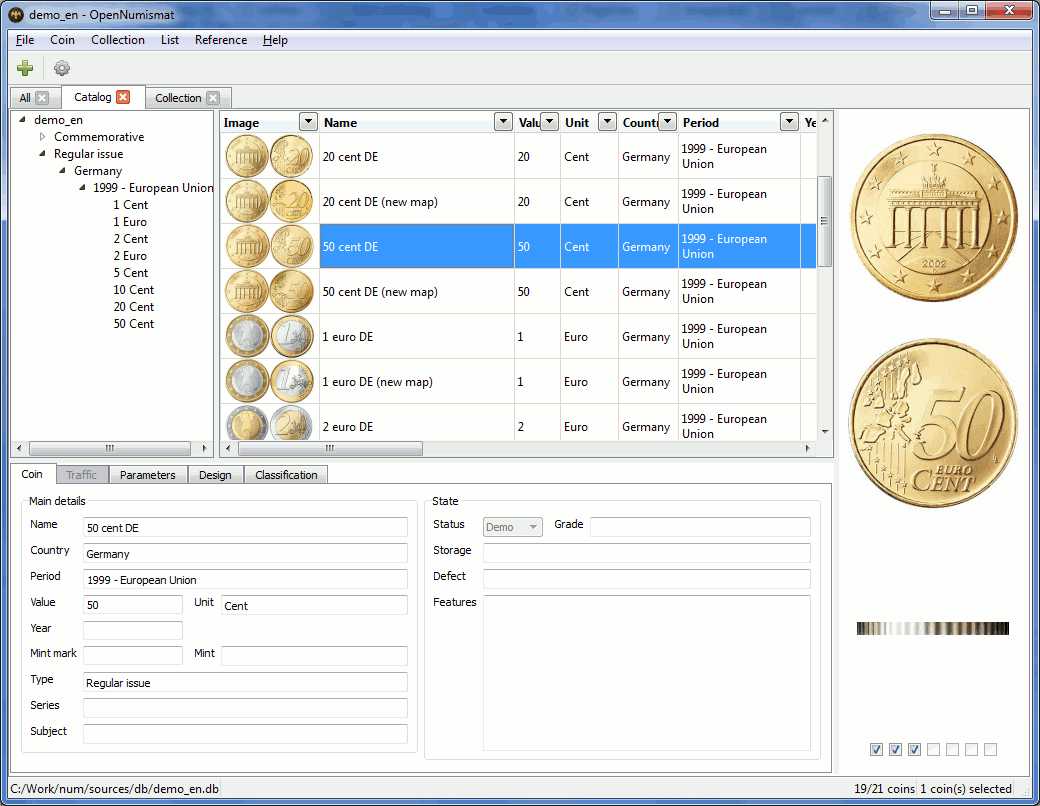
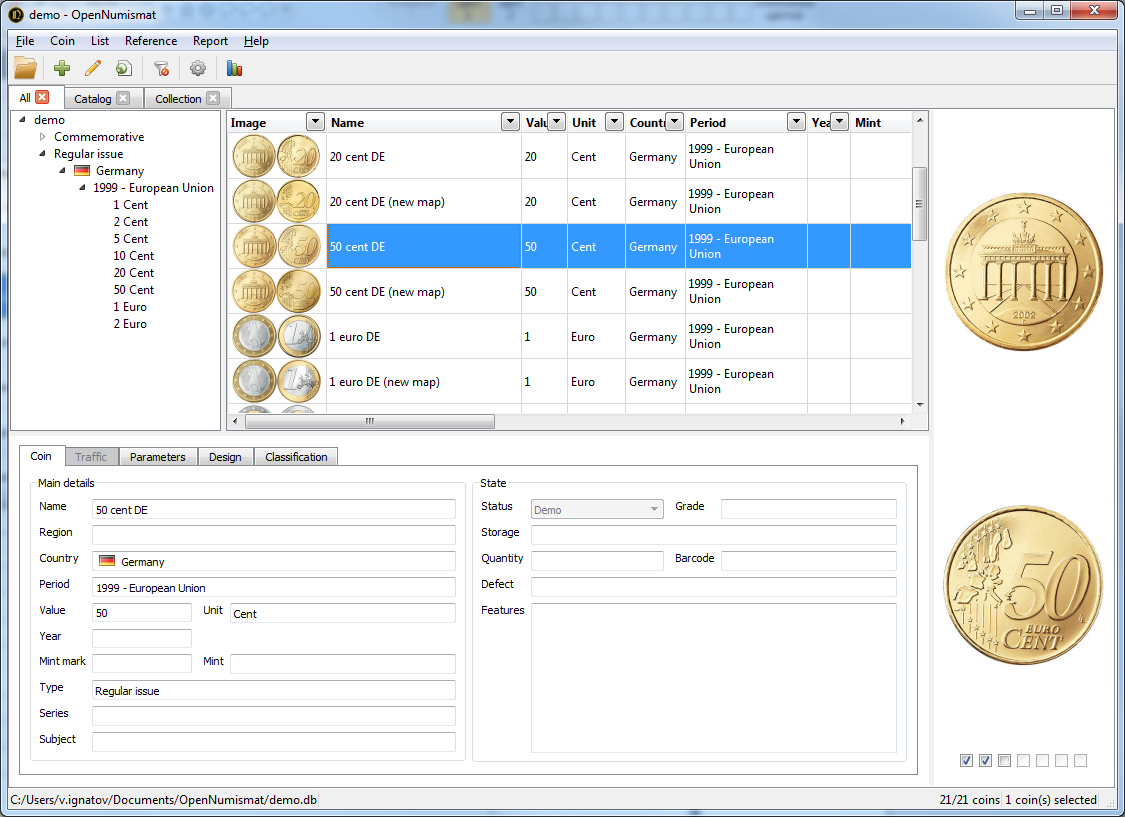
up

Changed region(s): [[0.0, 0.0, 1.0, 1.0], [0.1846, 0.7444, 0.2462, 0.7754]]

diff --git a/open-numismat/index.html b/open-numismat/index.html
@@ -58,18 +58,18 @@
       <section id="main_content" class="inner">
 <div>
 <h1>
-<a name="OpenNumismat"></a>OpenNumismat<a href="#OpenNumismat" class="section_anchor"></a>
+OpenNumismat
 </h1>
 <h2>
-<a name="Description"></a>Description<a href="#Description" class="section_anchor"></a>
+Description
 </h2>
 <p><strong>OpenNumismat</strong> is a handy and reliable application aimed at coin lovers, numismatists or amateurs looking to create a numismatics collection.</p>
 <p>With <strong>OpenNumismat</strong>, you will be able to create, organize and manage your own coin catalogue with detailed description and photos for each of the items.</p>
 <h2>
-<a name="Main_features"></a>Main features<a href="#Main_features" class="section_anchor"></a>
+Main features
 </h2>
 <ul>
-<li>More than 60 customizable <a href="/p/open-numismat/wiki/Fields?wl=en">fields</a> to describe the coin:</li>
+<li>More than 60 customizable fields to describe the coin:</li>
   <ul>
 <li>Features</li>
     <li>State of a coin</li>
@@ -79,10 +79,11 @@
   </ul>
 <li>Up to 7 photos coins (insert image from file, clipboard, download from the Web at URL)</li>
   <li>The grouping, filters and sorting to facilitate the retrieval of coins in the catalog</li>
-  <li>Generate and print <a href="/p/open-numismat/wiki/ReportEngine?wl=en">reports</a>, saving as HTML, PDF, MS Word</li>
+  <li>Generate and print reports, saving as HTML, PDF, MS Word</li>
   <li>Export customized lists as MS Excel, HTML and CSV</li>
   <li>Duplication of coins to quickly add a similar coin</li>
   <li>Batch edit coins</li>
+  <li>Statistics</li>
   <li>Ability to add and customize the lists to display the required data</li>
   <li>Does not require additional software to work with a database</li>
   <li>Importing existing collections from:</li>
@@ -100,16 +101,34 @@
   <li>Cross-platform: Windows, Linux, MacOS and Android.</li>
 </ul>
 <h2>
-<a name="Download"></a>Download<a href="#Download" class="section_anchor"></a>
+Download
 </h2>
-<p>The latest version: <strong>OpenNumismat 1.5.5</strong>. Release date: 09 October 2017</p>
-<p><strong><a href="https://github.com/OpenNumismat/open-numismat/releases/download/1.5.5/OpenNumismat-1.5.5.exe" rel="nofollow">Download OpenNumismat 1.5.5</a></strong> for Windows</p>
-<p><a href="https://github.com/OpenNumismat/open-numismat/releases/download/1.5.5/open-numismat_1.5.5_all.deb" rel="nofollow">Download OpenNumismat 1.5.5</a> for Debian/Ubuntu</p>
+<p>The latest version: <strong>OpenNumismat 1.6.0</strong>. Release date: 20 November 2017</p>
+<p><strong><a href="https://github.com/OpenNumismat/open-numismat/releases/download/1.6.0/OpenNumismat-1.6.0.exe" rel="nofollow">Download OpenNumismat 1.6.0</a></strong> for Windows</p>
+<p><a href="https://github.com/OpenNumismat/open-numismat/releases/download/1.6.0/open-numismat_1.6.0_all.deb" rel="nofollow">Download OpenNumismat 1.6.0</a> for Debian/Ubuntu</p>
 <p><a href="https://github.com/OpenNumismat/open-numismat/releases/download/1.5.3/OpenNumismat-1.5.3.dmg" rel="nofollow">Download OpenNumismat 1.5.3</a> for Mac OS X 10.8 and later (latest version not yet ready for Mac OS X)</p>
 <p><a href="https://github.com/OpenNumismat/open-numismat/releases" rel="nofollow">Older Releases...</a></p>
 <h2>
-<a name="News"></a>History of changes<a href="#News" class="section_anchor"></a>
+History of changes
 </h2>
+  <h3>What's new in OpenNumismat 1.6.0 (20 November 2017)</h3>
+  <ul>
+    <li>Implemented Statistics panel (<a href="/images/screenStatistics.png">screenshot</a>)</li>
+    <li>Renaming images in Edit dialog (new name showed as tooltip in Image panel)</li>
+    <li>New fields: Ruler and Region (DB will be updated automatically - be patient)</li>
+    <li>Implemented attaching reference to a collection file</li>
+    <li>Improved using reference in Edit dialog</li>
+    <li>New flags in reference, fixed some countries (for get new reference remove current)</li>
+    <li>Icons from reference can be showed in Tree, Filters, Info panel and Table of coins</li>
+    <li>Improved edit Tree dialog</li>
+    <li>Added support for 1/3 values</li>
+    <li>Fixed cloning and closing lists</li>
+    <li>Fixed importing from UCoin</li>
+    <li>Fixed entering values greater 1000</li>
+    <li>Fixed wikipedia_2 report generation</li>
+    <li>New report template: Wanted</li>
+    <li>Added link to <a href="manual.html">User manual</a></li>
+  </ul>
   <h3>What's new in OpenNumismat 1.5.5 (09 October 2017)</h3>
   <ul>
     <li>New settings: convert 0.5 to &frac12;</li>
@@ -134,29 +153,14 @@
     <li>Improved getting boolean settings on MacOS</li>
     <li>Other minor improvements</li>
   </ul>
-  <h3>What's new in OpenNumismat 1.5.3 (19 February 2016)</h3>
-  <ul>
-    <li>Fix loosing cursor when inserting records</li>
-    <li>Add coins from another collection</li>
-    <li>Fix filtering with Status column</li>
-    <li>Add Rename field button into Settings</li>
-    <li>Fix float numeric fields for some Romance languages</li>
-    <li>Improve setting values for Mintage field</li>
-    <li>Fix pasting image from web</li>
-    <li>Fix clearing Date fields</li>
-    <li>Added French translations (by Mathieu Martineau, Jean-Claude Kursner)</li>
-    <li>Added option for compressing images on export to mobile</li>
-    <li>Updated Clear filters icon</li>
-    <li>Updated additional libraries and dependencies</li>
-  </ul>
   <a href="history.html">Older...</a>
 <h2>
-<a name="Screenshots"></a>Screenshots<a href="#Screenshots" class="section_anchor"></a>
+Screenshots
 </h2>
 <p><img src="/images/screenMain.png"></p>
 <p><a href="screenshots.html">More screenshots and videos</a></p>
 <h2>
-<a name="How_can_I_help?"></a>How can I help?<a href="#How_can_I_help?" class="section_anchor"></a>
+How can I help?
 </h2>
 <ul>
 <li>Use <strong>OpenNumismat</strong> and recommend it to your friends.</li>
@@ -165,7 +169,7 @@
   <li>If you own the exclusive rights to the catalogues, photographs or other numismatic content that can be included in the application data, please, contact the author.</li>
 </ul>
 <h2>
-<a name="Details"></a>Details<a href="#Details" class="section_anchor"></a>
+Details
 </h2>
 <p><strong>OpenNumismat</strong> is a:</p>
 <p><img src="/images/qt-logo.png" class="img-logo"><img src="/images/python-logo.png" class="img-logo"><img src="/images/sqlite-logo.png" class="img-logo"><img src="/images/gplv3-logo.png" class="img-logo"></p>

diff --git a/open-numismat/history.html b/open-numismat/history.html
@@ -56,6 +56,24 @@
 History of changes OpenNumismat
 </h2>
 <p>
+  <h3>What's new in OpenNumismat 1.6.0 (20 November 2017)</h3>
+  <ul>
+    <li>Implemented Statistics panel (<a href="/images/screenStatistics.png">screenshot</a>)</li>
+    <li>Renaming images in Edit dialog (new name showed as tooltip in Image panel)</li>
+    <li>New fields: Ruler and Region (DB will be updated automatically - be patient)</li>
+    <li>Implemented attaching reference to a collection file</li>
+    <li>Improved using reference in Edit dialog</li>
+    <li>New flags in reference, fixed some countries (for get new reference remove current)</li>
+    <li>Icons from reference can be showed in Tree, Filters, Info panel and Table of coins</li>
+    <li>Improved edit Tree dialog</li>
+    <li>Added support for 1/3 values</li>
+    <li>Fixed cloning and closing lists</li>
+    <li>Fixed importing from UCoin</li>
+    <li>Fixed entering values greater 1000</li>
+    <li>Fixed wikipedia_2 report generation</li>
+    <li>New report template: Wanted</li>
+    <li>Added link to <a href="../manual.html">User manual</a></li>
+  </ul>
   <h3>What's new in OpenNumismat 1.5.5 (09 October 2017)</h3>
   <ul>
     <li>New settings: convert 0.5 to &frac12;</li>

diff --git a/index.html b/index.html
@@ -94,8 +94,9 @@ for (i=0;i<langcodes.length-1;i++){
       <section class="inner">
 <h3><a name="news" class="anchor" href="#news"><span class="octicon octicon-link"></span></a><a href="news">Project news</a></h3>
 <ul>
+<li>20.11.2017 - Version 1.6.0 released (<a href="open-numismat/history.html">history of changes</a>)</li>
 <li>16.11.2017 - Added <a href="open-numismat/manual.html">User manual</a></li>
-<li>09.10.2017 - Version 1.5.5 released (<a href="open-numismat/history.html">history of changes</a>)</li>
+<li>09.10.2017 - Version 1.5.5 released</li>
 <li>28.09.2017 - Version 1.5.4 released</li>
 <li>19.02.2016 - Version 1.5.3 released</li>
 <li>06.02.2015 - Version 1.5.2 released</li>

diff --git a/open-numismat/screenshots.html b/open-numismat/screenshots.html
@@ -69,6 +69,8 @@ Screenshots
 <p><img src="/images/screenFiltering.png"></p>
 <p>Reference</p>
 <p><img src="/images/screenReference.png"></p>
+<p>Statistics</p>
+<p><img src="/images/screenStatistics.png"></p>
 </div>
       </section>
     </div>
